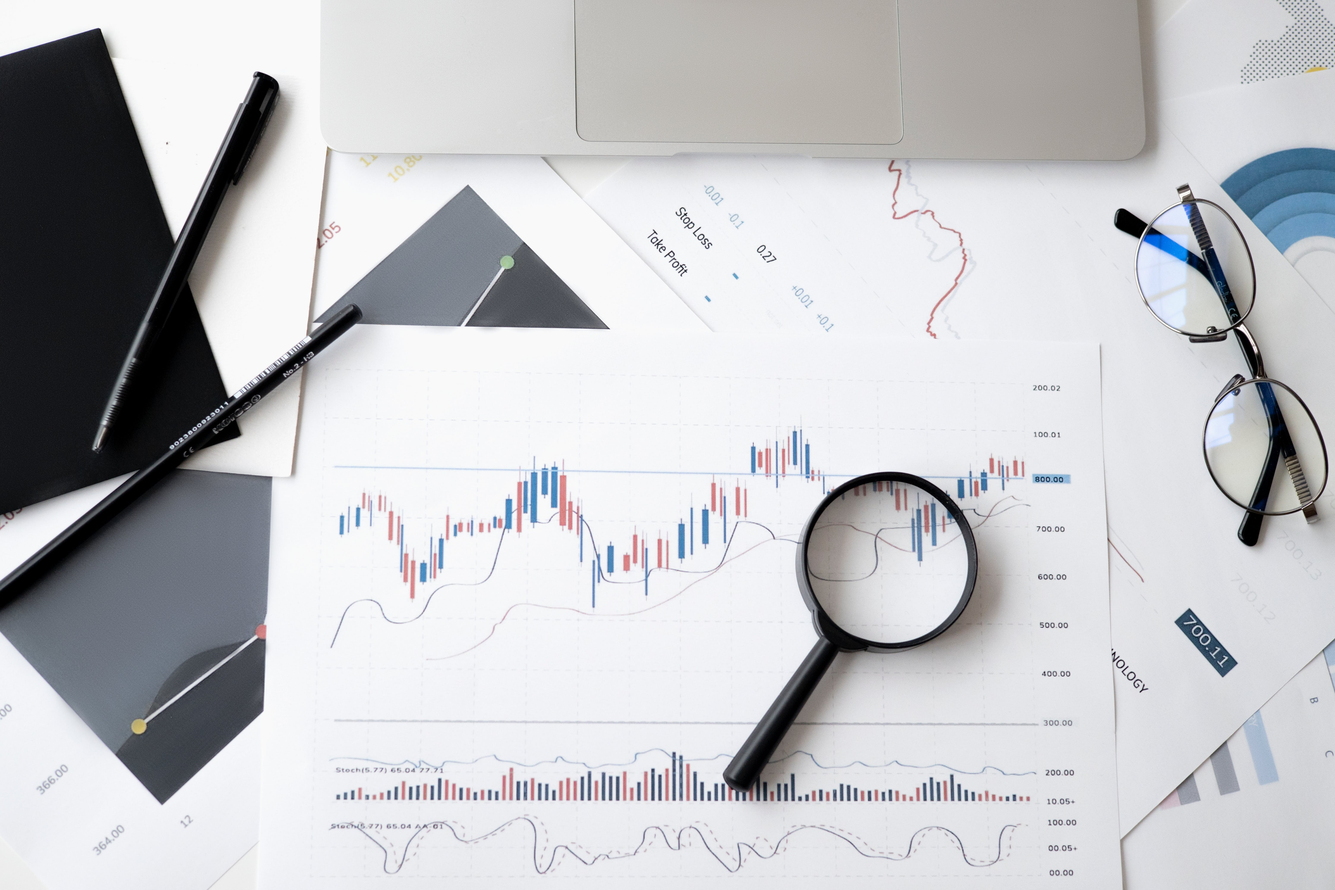
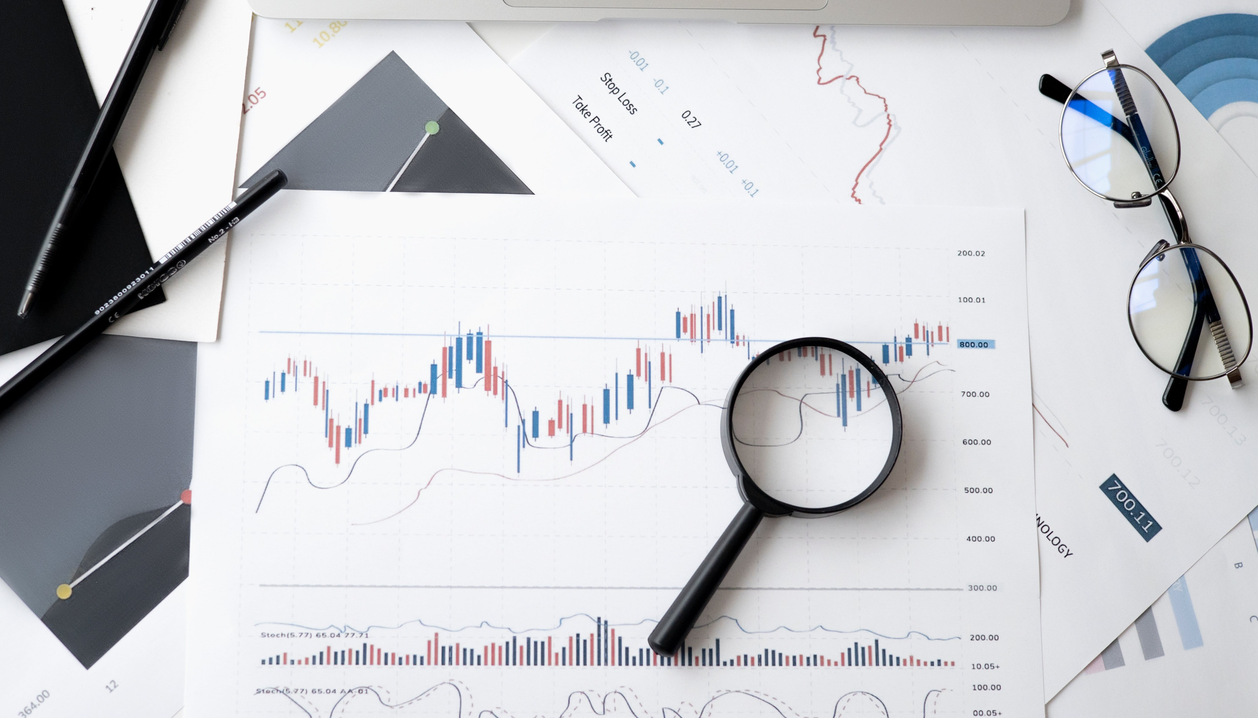
Image size

diff --git a/README.md b/README.md
@@ -1,6 +1,4 @@
-<div style="overflow: hidden; width: 600px; height: 270px;">
-  <img src="image.jpg" alt="Alt text" style="width: 100%; height: 100%; object-fit: cover;">
-</div>
+![image](image.jpg)
 
 # Hypothesis Testing on Supermarket Sales
 
